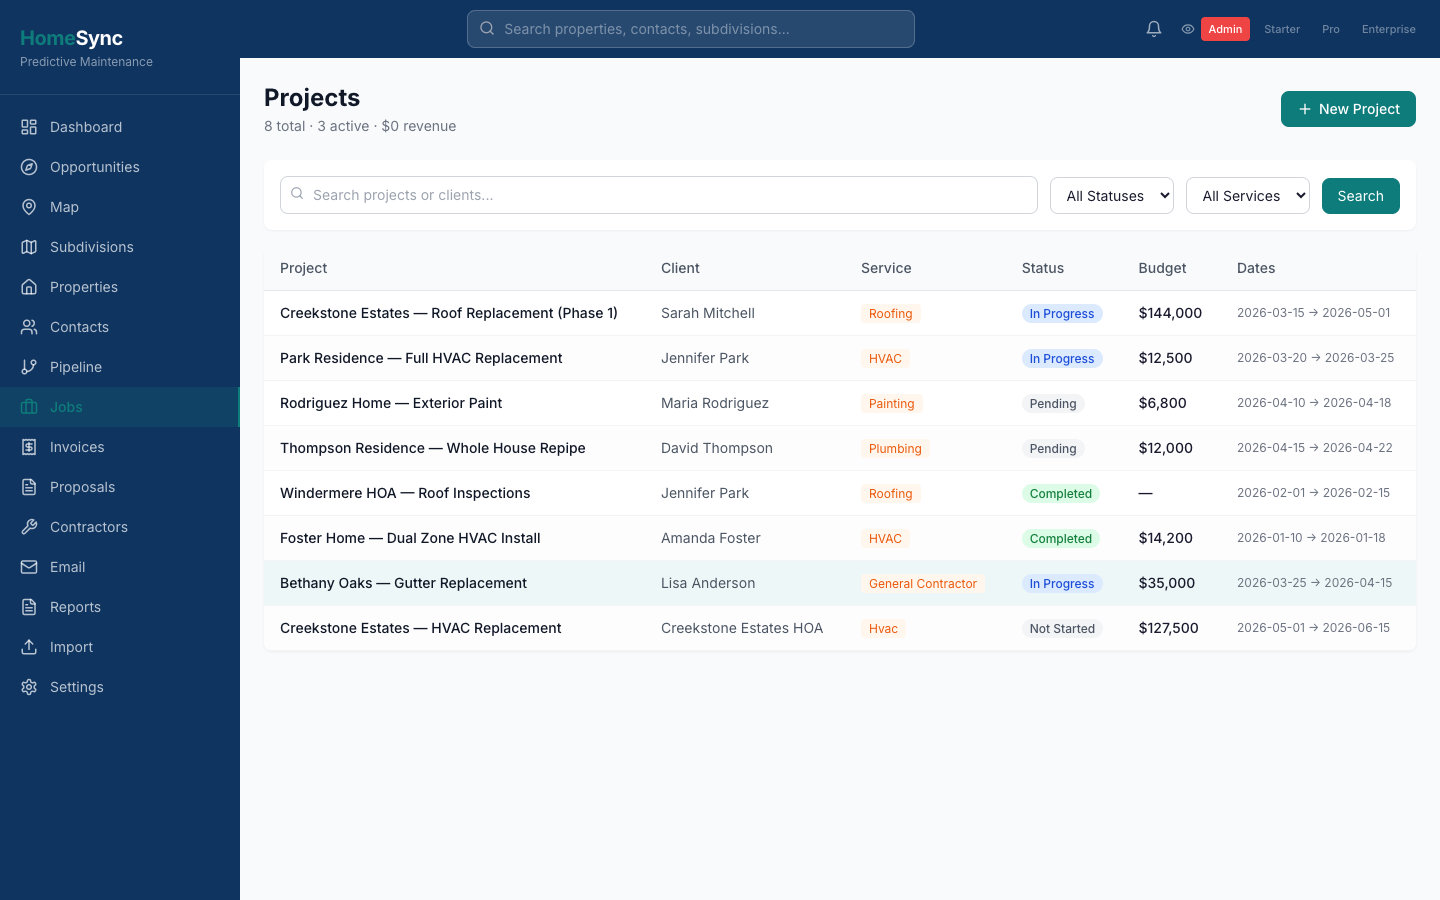
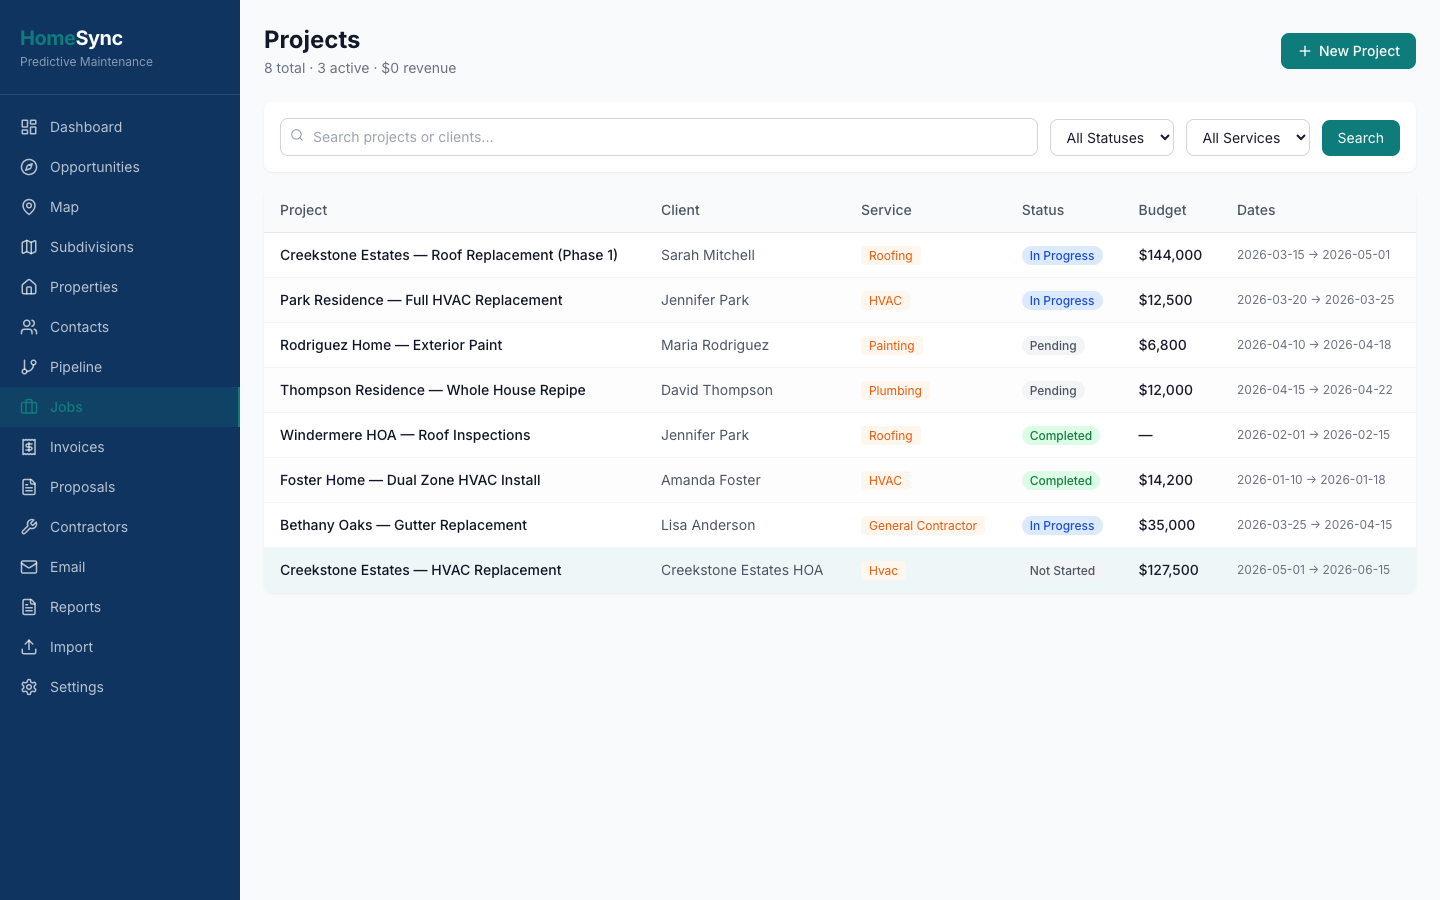
Hide admin view options and user section in homepage screenshots

diff --git a/scripts/take-homepage-screenshots.js b/scripts/take-homepage-screenshots.js
@@ -36,29 +36,16 @@ async function main() {
   const hideUI = async () => {
     await page.evaluate(() => {
       // Hide sidebar user/logout section at bottom
-      const aside = document.querySelector('aside');
-      if (aside) {
-        const lastChild = aside.querySelector('.border-t');
-        if (lastChild) lastChild.style.display = 'none';
-      }
+      document.querySelectorAll('aside .border-t').forEach(el => {
+        el.style.display = 'none';
+      });
 
-      // Hide admin "View As" tier switcher buttons in top header bar
-      const topBar = document.querySelector('.bg-navy');
-      if (topBar) {
-        const flexContainers = topBar.querySelectorAll('.shrink-0');
-        flexContainers.forEach(el => {
-          const buttons = el.querySelectorAll('button');
-          if (buttons.length >= 3) {
-            el.style.display = 'none';
-          }
-        });
-      }
-
-      // Also hide notification bell for cleaner screenshots
-      const bellButtons = document.querySelectorAll('.relative button');
-      bellButtons.forEach(btn => {
-        if (btn.querySelector('svg') && btn.closest('.relative')?.querySelector('[class*="bg-red"]')) {
-          btn.closest('.relative').style.display = 'none';
+      // Hide admin "View As" tier switcher — find all elements in the top bar
+      // that have multiple small buttons (the tier switcher has 4 buttons)
+      document.querySelectorAll('div.shrink-0').forEach(el => {
+        const buttons = el.querySelectorAll('button');
+        if (buttons.length >= 3) {
+          el.style.display = 'none';
         }
       });
     });
